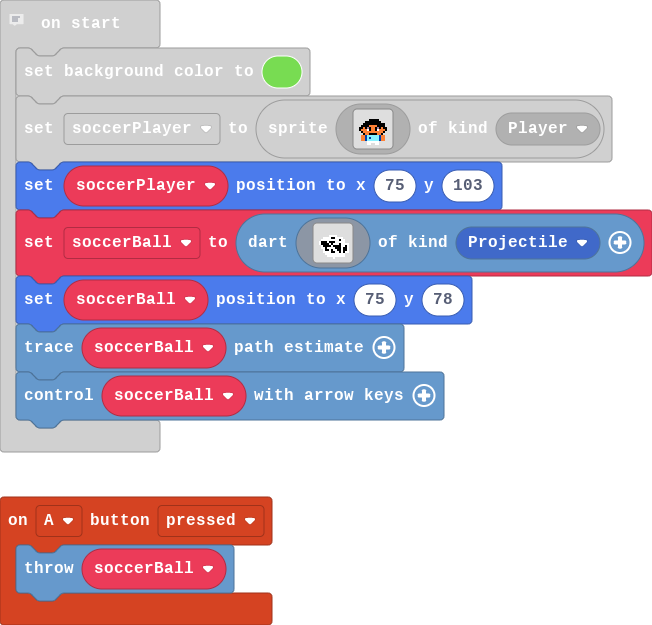
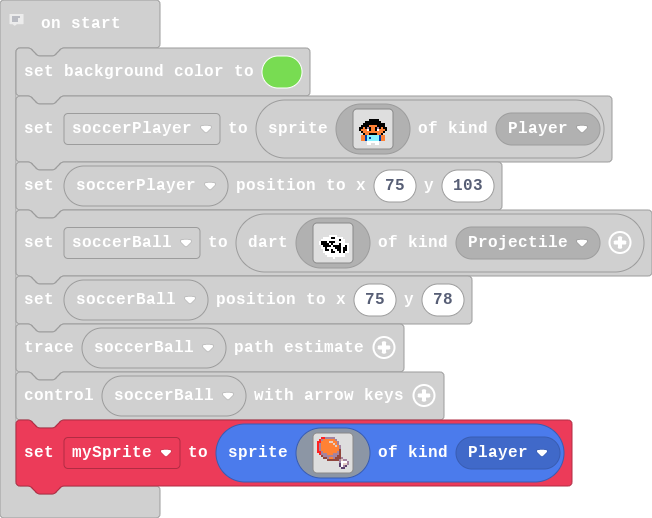
Update main.blocks, main.ts

diff --git a/main.ts b/main.ts
@@ -44,3 +44,21 @@ soccerBall = darts.create(img`
 soccerBall.setPosition(75, 78)
 soccerBall.setTrace()
 soccerBall.controlWithArrowKeys()
+let mySprite = sprites.create(img`
+    . . 2 2 b b b b b . . . . . . . 
+    . 2 b 4 4 4 4 4 4 b . . . . . . 
+    2 2 4 4 4 4 d d 4 4 b . . . . . 
+    2 b 4 4 4 4 4 4 d 4 b . . . . . 
+    2 b 4 4 4 4 4 4 4 d 4 b . . . . 
+    2 b 4 4 4 4 4 4 4 4 4 b . . . . 
+    2 b 4 4 4 4 4 4 4 4 4 e . . . . 
+    2 2 b 4 4 4 4 4 4 4 b e . . . . 
+    . 2 b b b 4 4 4 b b b e . . . . 
+    . . e b b b b b b b e e . . . . 
+    . . . e e b 4 4 b e e e b . . . 
+    . . . . . e e e e e e b d b b . 
+    . . . . . . . . . . . b 1 1 1 b 
+    . . . . . . . . . . . c 1 d d b 
+    . . . . . . . . . . . c 1 b c . 
+    . . . . . . . . . . . . c c . . 
+    `, SpriteKind.Player)
